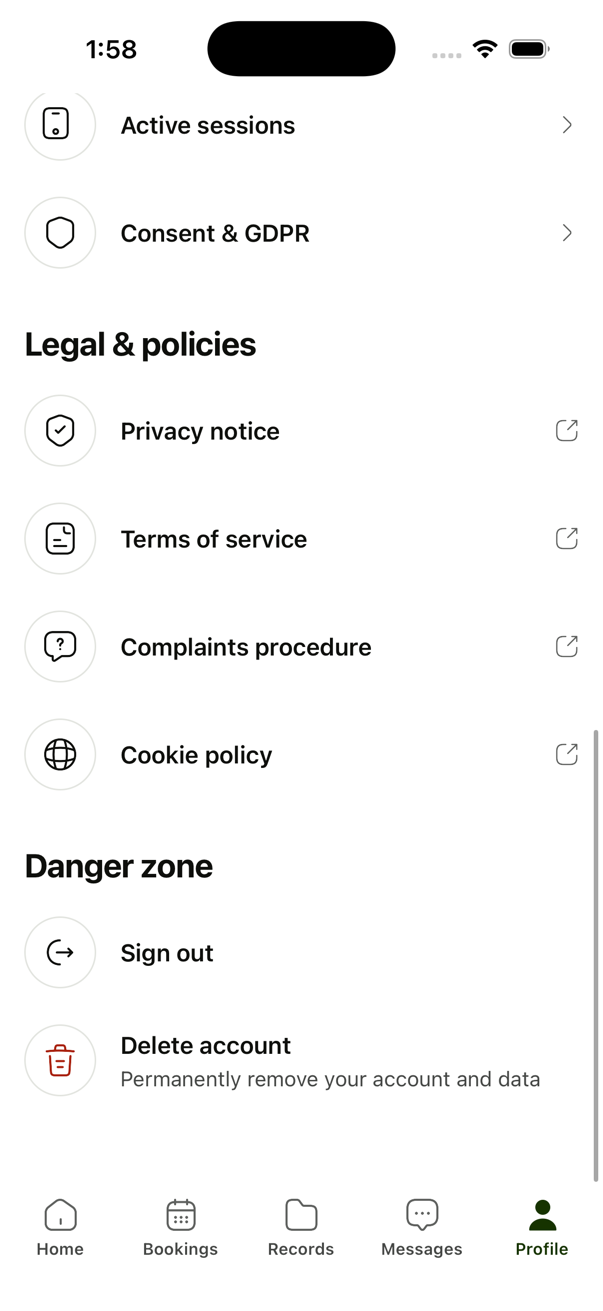
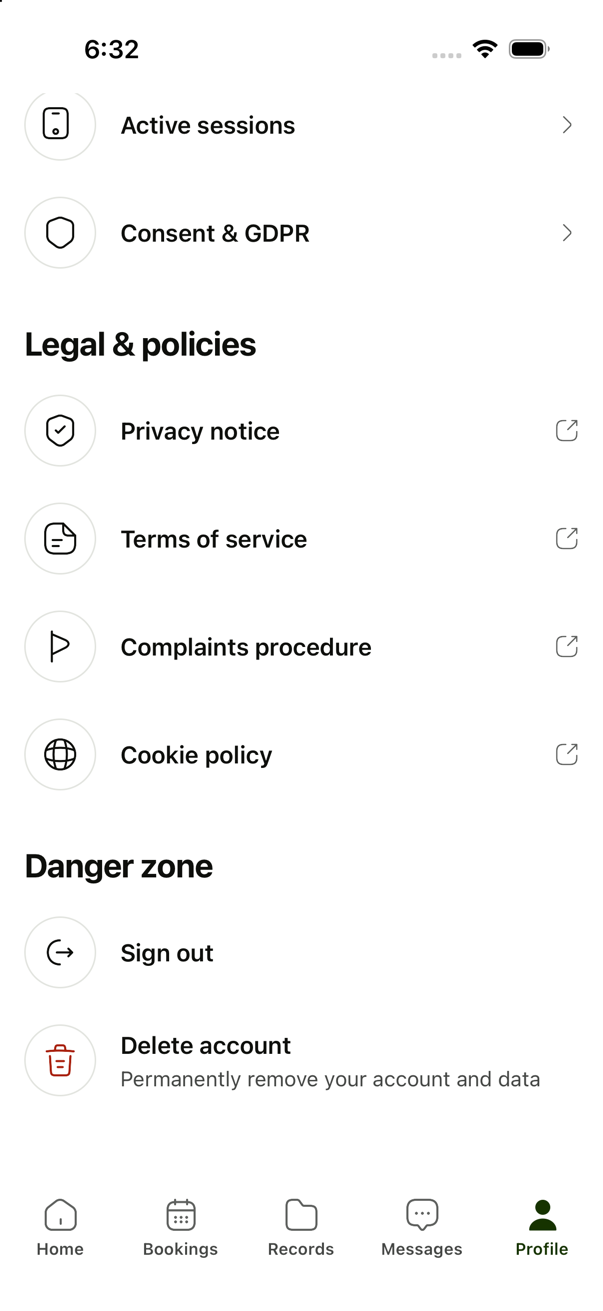
Wise audit: sheets, and the last text glyphs
- Removed every "›"/"‹" glyph: buttons use the Iconsax arrow, links rely on
  their row chevron. The icon test now also catches angle glyphs.
- Triage chips, compose recipients, plan status and total, and tooth names
  in sentence case; the chart shows "Upper right", not "upper_right".
- Relationship, gender and emergency-contact pills are 36pt with extra tap
  area (were about 28pt).
- Icons: documents use DocumentText1 (DocumentText read as a face at small
  sizes), complaints use a flag, referrals use a gift instead of the people
  icon also used for dependants.
- Audit screenshots for all eight sheets.

diff --git a/pavdental/src/app/(patient)/(tabs)/messages.tsx b/pavdental/src/app/(patient)/(tabs)/messages.tsx
@@ -55,7 +55,7 @@ export default function MessagesScreen() {
   const threads: ThreadListItem[] = Array.isArray(rawThreads)
     ? rawThreads.map((t: any) => ({
         id: t.id,
-        subject: t.subject || "Care Team Message",
+        subject: t.subject || "Care team message",
         from: t.from || (t.clinicianName ? `${t.clinicianName}${t.clinicianRole ? ` (${t.clinicianRole})` : ""}` : "Pav Dental care team"),
         preview: t.preview || (t.messages?.[t.messages.length - 1]?.body ?? ""),
         sentAtIso: t.sentAtIso || t.updatedAt || new Date().toISOString(),
@@ -155,7 +155,7 @@ export default function MessagesScreen() {
           <View style={styles.triageTextGroup}>
             <View style={styles.triageHeaderLine}>
               <ThemedText variant="subhead" style={styles.triageTitle}>
-                Dental Emergency?
+                Dental emergency?
               </ThemedText>
             </View>
             <ThemedText variant="caption" style={styles.triageSubtitle}>
@@ -304,7 +304,7 @@ export default function MessagesScreen() {
             <View style={styles.recipientSelector}>
               <Pressable
                 accessibilityRole="button"
-                accessibilityLabel="Route to Practice Team"
+                accessibilityLabel="Route to practice team"
                 onPress={() => setNewRecipientType("practice")}
                 style={[
                   styles.recipientOption,
@@ -318,12 +318,12 @@ export default function MessagesScreen() {
                     newRecipientType === "practice" && styles.recipientTextActive,
                   ]}
                 >
-                  Practice Team
+                  Practice team
                 </ThemedText>
               </Pressable>
               <Pressable
                 accessibilityRole="button"
-                accessibilityLabel="Route to Clinical Care Team"
+                accessibilityLabel="Route to care team clinician"
                 onPress={() => setNewRecipientType("care_team")}
                 style={[
                   styles.recipientOption,
@@ -337,7 +337,7 @@ export default function MessagesScreen() {
                     newRecipientType === "care_team" && styles.recipientTextActive,
                   ]}
                 >
-                  Care Team Clinician
+                  Care team clinician
                 </ThemedText>
               </Pressable>
             </View>

diff --git a/pavdental/src/components/emergency-triage-modal.tsx b/pavdental/src/components/emergency-triage-modal.tsx
@@ -33,7 +33,7 @@ interface SymptomOption {
 const SYMPTOMS: SymptomOption[] = [
   {
     id: "pain",
-    label: "Severe Pain",
+    label: "Severe pain",
     icon: "alert",
     tag: "Urgent",
     title: "Severe toothache",
@@ -45,7 +45,7 @@ const SYMPTOMS: SymptomOption[] = [
   },
   {
     id: "broken",
-    label: "Broken Tooth",
+    label: "Broken tooth",
     icon: "zap",
     tag: "Same-day care",
     title: "Broken or chipped tooth",
@@ -57,7 +57,7 @@ const SYMPTOMS: SymptomOption[] = [
   },
   {
     id: "filling",
-    label: "Lost Crown / Filling",
+    label: "Lost crown / filling",
     icon: "activity",
     tag: "Priority",
     title: "Lost crown or filling",
@@ -68,7 +68,7 @@ const SYMPTOMS: SymptomOption[] = [
   },
   {
     id: "swelling",
-    label: "Facial Swelling",
+    label: "Facial swelling",
     icon: "alert",
     tag: "Urgent",
     title: "Swelling in the face or gums",
@@ -79,7 +79,7 @@ const SYMPTOMS: SymptomOption[] = [
   },
   {
     id: "bleeding",
-    label: "Bleeding Gums",
+    label: "Bleeding gums",
     icon: "activity",
     tag: "Clinical review",
     title: "Bleeding from the gums or a socket",
@@ -299,7 +299,7 @@ export function EmergencyTriageModal({ visible, onClose }: EmergencyTriageModalP
                   Need urgent advice by phone?
                 </ThemedText>
                 <ThemedText variant="subhead" style={styles.hotlineNumber}>
-                  {`Call the practice (${PRACTICE_CONFIG.phone}) ›`}
+                  {`Call the practice (${PRACTICE_CONFIG.phone})`}
                 </ThemedText>
               </View>
             </Pressable>
@@ -308,7 +308,8 @@ export function EmergencyTriageModal({ visible, onClose }: EmergencyTriageModalP
           {/* Action CTAs */}
           <View style={styles.sheetFooter}>
             <Button
-              title="Book an appointment ›"
+              title="Book an appointment"
+              arrow
               variant="primary"
               size="lg"
               onPress={handleBookEmergency}

diff --git a/pavdental/src/app/(patient)/records/odontogram.tsx b/pavdental/src/app/(patient)/records/odontogram.tsx
@@ -83,16 +83,16 @@ function getToothAnatomy(toothNumber: number) {
   }
 
   const lastDigit = fdi % 10;
-  if (lastDigit === 1) type = "Central Incisor";
-  else if (lastDigit === 2) type = "Lateral Incisor";
-  else if (lastDigit === 3) type = "Canine";
-  else if (lastDigit === 4) type = "First Premolar";
-  else if (lastDigit === 5) type = "Second Premolar";
-  else if (lastDigit === 6) type = "First Molar";
-  else if (lastDigit === 7) type = "Second Molar";
-  else if (lastDigit === 8) type = "Third Molar";
+  if (lastDigit === 1) type = "central incisor";
+  else if (lastDigit === 2) type = "lateral incisor";
+  else if (lastDigit === 3) type = "canine";
+  else if (lastDigit === 4) type = "first premolar";
+  else if (lastDigit === 5) type = "second premolar";
+  else if (lastDigit === 6) type = "first molar";
+  else if (lastDigit === 7) type = "second molar";
+  else if (lastDigit === 8) type = "third molar";
 
-  const archName = isUpper ? "Maxillary Arch" : "Mandibular Arch";
+  const archName = isUpper ? "Maxillary arch" : "Mandibular arch";
   const side = quadrant.includes("R") ? "Right" : "Left";
 
   return {
@@ -283,7 +283,7 @@ export default function OdontogramScreen() {
                   Tooth #{selectedTooth.toothNumber} · {anatomy.fullName}
                 </ThemedText>
                 <ThemedText variant="caption" style={styles.selectedToothSub}>
-                  {anatomy.fdi} ({selectedTooth.quadrant}) · {anatomy.archName} · Tap to inspect
+                  {anatomy.fdi} ({toLabel(selectedTooth.quadrant)}) · {anatomy.archName} · Tap to inspect
                 </ThemedText>
               </View>
               <View style={styles.selectedDetailRight}>

diff --git a/pavdental/src/app/(patient)/records/plans/[id].tsx b/pavdental/src/app/(patient)/records/plans/[id].tsx
@@ -242,7 +242,7 @@ export default function TreatmentPlanDetailScreen() {
             </ThemedText>
             <Badge
               label={
-                decision === "accepted" ? "Read" : decision === "declined" ? "Declined" : "Awaiting Review"
+                decision === "accepted" ? "Read" : decision === "declined" ? "Declined" : "Awaiting review"
               }
               variant={decision === "declined" ? "danger" : decision === "accepted" ? "success" : "warning"}
             />
@@ -351,7 +351,7 @@ export default function TreatmentPlanDetailScreen() {
         <Card style={styles.card}>
           <View style={styles.topRow}>
             <ThemedText variant="subhead" style={styles.muted}>
-              Total Treatment Estimate
+              Total treatment estimate
             </ThemedText>
             <ThemedText variant="title" style={styles.totalPrice}>
               {formatGbp(totalCostPence)}
@@ -371,7 +371,7 @@ export default function TreatmentPlanDetailScreen() {
                 </ThemedText>
               </View>
               <ThemedText variant="caption" style={styles.financeLink}>
-                Learn more ›
+                Learn more
               </ThemedText>
             </Pressable>
           ) : null}
@@ -474,7 +474,7 @@ export default function TreatmentPlanDetailScreen() {
               >
                 <AppIcon name="creditCard" size={14} color={colors.ink} />
                 <ThemedText variant="caption" style={styles.modalFinanceText}>
-                  Ask about payment plans ›
+                  Ask about payment plans
                 </ThemedText>
               </Pressable>
 

diff --git a/pavdental/src/components/app-icon.tsx b/pavdental/src/components/app-icon.tsx
@@ -39,7 +39,8 @@ const ICONS = {
   Danger: require("iconsax-react-native/dist/cjs/Danger.js"),
   Discover: require("iconsax-react-native/dist/cjs/Discover.js"),
   DocumentDownload: require("iconsax-react-native/dist/cjs/DocumentDownload.js"),
-  DocumentText: require("iconsax-react-native/dist/cjs/DocumentText.js"),
+  DocumentText1: require("iconsax-react-native/dist/cjs/DocumentText1.js"),
+  Flag2: require("iconsax-react-native/dist/cjs/Flag2.js"),
   DocumentUpload: require("iconsax-react-native/dist/cjs/DocumentUpload.js"),
   Edit2: require("iconsax-react-native/dist/cjs/Edit2.js"),
   EmojiHappy: require("iconsax-react-native/dist/cjs/EmojiHappy.js"),
@@ -175,12 +176,14 @@ const GLYPHS = {
   receipt: { icon: "Receipt2" },
   tag: { icon: "Tag" },
   gift: { icon: "Gift" },
-  fileText: { icon: "DocumentText" },
+  // DocumentText's lines sit low and read as a face at 18–24pt.
+  fileText: { icon: "DocumentText1" },
   clipboard: { icon: "ClipboardText" },
   notes: { icon: "NoteText" },
   package: { icon: "Box" },
   mail: { icon: "Sms" },
   campaign: { icon: "Brodcast" },
+  flag: { icon: "Flag2" },
   // Calls and media
   phone: { icon: "Call" },
   phoneCall: { icon: "CallCalling" },

diff --git a/pavdental/src/app/(operator)/route.tsx b/pavdental/src/app/(operator)/route.tsx
@@ -2,7 +2,7 @@ import React from "react";
 import { View, StyleSheet, ScrollView, Alert } from "react-native";
 import { useRouter } from "expo-router";
 import { useQuery, useMutation, useQueryClient } from "@tanstack/react-query";
-import { ThemedText, Card, Badge, Button, ErrorState, Skeleton, IconButton } from "@/components";
+import { ThemedText, Card, Badge, Button, ErrorState, Skeleton, IconButton, AppIcon } from "@/components";
 import { colors, spacing, radius } from "@/theme";
 import { fetchCurrentShift, updatePhase, optimizeRoute, reorderQueue } from "@/features/van/van-api";
 import { VanServiceRequest, VanStopPhase } from "@/features/van/van-types";
@@ -363,7 +363,8 @@ export default function OperatorRouteScreen() {
             </ThemedText>
             <View style={styles.roleBtnRow}>
               <Button
-                title="‹ Patient portal"
+                title="Patient portal"
+                icon={<AppIcon name="arrowLeft" size={16} color={colors.ink} />}
                 variant="secondary"
                 size="sm"
                 onPress={() => {

diff --git a/pavdental/src/__tests__/iconsax-icons.test.ts b/pavdental/src/__tests__/iconsax-icons.test.ts
@@ -43,7 +43,7 @@ assert(otherLibs.length === 0, `no other icon library is imported${otherLibs.len
 const bold = files.filter((f) => /variant=\{?"Bold"/.test(readFileSync(f, "utf8"))).map((f) => f.slice(SRC.length + 1)).sort();
 assert(bold.every((f) => ["app/(patient)/(tabs)/_layout.tsx", "components/checkbox-mark.tsx"].includes(f)), `Bold appears only on the active tab and a ticked checkbox (${bold.join(", ")})`);
 
-const glyphs = files.filter((f) => !f.endsWith("app-icon.tsx") && /[✓✕☑☐✔✗✘○▲▼►◄▶◀]/.test(readFileSync(f, "utf8")));
+const glyphs = files.filter((f) => !f.endsWith("app-icon.tsx") && /[✓✕☑☐✔✗✘○▲▼►◄▶◀›‹]/.test(readFileSync(f, "utf8")));
 assert(glyphs.length === 0, `no text glyphs used as icons${glyphs.length ? `: ${glyphs.join(", ")}` : ""}`);
 const typedPlus = files.filter((f) => /title="\+ /.test(readFileSync(f, "utf8")));
 assert(typedPlus.length === 0, "buttons use the Iconsax plus, not a typed '+'");

diff --git a/pavdental/src/components/forms/PersonalInfoForm.tsx b/pavdental/src/components/forms/PersonalInfoForm.tsx
@@ -138,6 +138,7 @@ export function PersonalInfoForm({
                   disabled={isLoading}
                   onPress={() => setValue("gender", opt.value, { shouldDirty: true, shouldValidate: true })}
                   style={[styles.genderPill, active && styles.genderPillActive]}
+                  hitSlop={{ top: 4, bottom: 4 }}
                   accessibilityRole="button"
                   accessibilityState={{ selected: active }}
                 >
@@ -274,7 +275,8 @@ const styles = StyleSheet.create({
     backgroundColor: colors.systemBackground,
     borderRadius: radius.full,
     paddingHorizontal: spacing.sm,
-    paddingVertical: spacing.xs,
+    justifyContent: "center",
+    minHeight: 36,
   },
   genderPillActive: {
     backgroundColor: colors.accent,

diff --git a/pavdental/src/components/forms/EmergencyContactForm.tsx b/pavdental/src/components/forms/EmergencyContactForm.tsx
@@ -98,6 +98,7 @@ export function EmergencyContactForm({
                   disabled={isLoading}
                   onPress={() => setValue("relationship", rel, { shouldDirty: true, shouldValidate: true })}
                   style={[styles.pill, active && styles.pillActive]}
+                  hitSlop={{ top: 4, bottom: 4 }}
                   accessibilityRole="button"
                   accessibilityState={{ selected: active }}
                 >
@@ -185,7 +186,8 @@ const styles = StyleSheet.create({
     backgroundColor: colors.systemBackground,
     borderRadius: radius.full,
     paddingHorizontal: spacing.sm,
-    paddingVertical: spacing.xs,
+    justifyContent: "center",
+    minHeight: 36,
   },
   pillActive: {
     backgroundColor: colors.accent,

diff --git a/pavdental/src/app/(patient)/(tabs)/profile/dependants.tsx b/pavdental/src/app/(patient)/(tabs)/profile/dependants.tsx
@@ -277,6 +277,7 @@ export default function DependantsScreen() {
                     key={r}
                     onPress={() => setRelationship(r)}
                     style={[styles.relPill, relationship === r && styles.relPillActive]}
+                    hitSlop={{ top: 4, bottom: 4 }}
                   >
                     <ThemedText
                       variant="caption"
@@ -430,7 +431,8 @@ const styles = StyleSheet.create({
     backgroundColor: colors.systemBackground,
     borderRadius: radius.full,
     paddingHorizontal: spacing.sm,
-    paddingVertical: spacing.xs,
+    justifyContent: "center",
+    minHeight: 36,
   },
   relPillActive: {
     backgroundColor: colors.accent,

diff --git a/pavdental/src/app/(patient)/van/confirm.tsx b/pavdental/src/app/(patient)/van/confirm.tsx
@@ -225,7 +225,8 @@ export default function VanConfirmScreen() {
       {/* Action Footer */}
       <View style={[styles.footer, { paddingBottom: Math.max(spacing.md, insets.bottom) }]}>
         <Button
-          title={isSubmitting ? "Dispatching..." : "Confirm & request van visit ›"}
+          title={isSubmitting ? "Dispatching…" : "Confirm & request van visit"}
+          arrow={!isSubmitting}
           size="lg"
           loading={isSubmitting}
           disabled={!hasService}

diff --git a/pavdental/src/app/(patient)/(tabs)/profile/index.tsx b/pavdental/src/app/(patient)/(tabs)/profile/index.tsx
@@ -76,7 +76,7 @@ const groups: { heading: string; rows: MenuRow[] }[] = [
     rows: [
       {
         title: "Refer a friend",
-        icon: "users",
+        icon: "gift",
         route: "/(patient)/(tabs)/profile/refer",
       },
     ],
@@ -116,7 +116,7 @@ const groups: { heading: string; rows: MenuRow[] }[] = [
       },
       {
         title: "Complaints procedure",
-        icon: "help",
+        icon: "flag",
         url: LEGAL_URLS.complaints,
       },
       {
